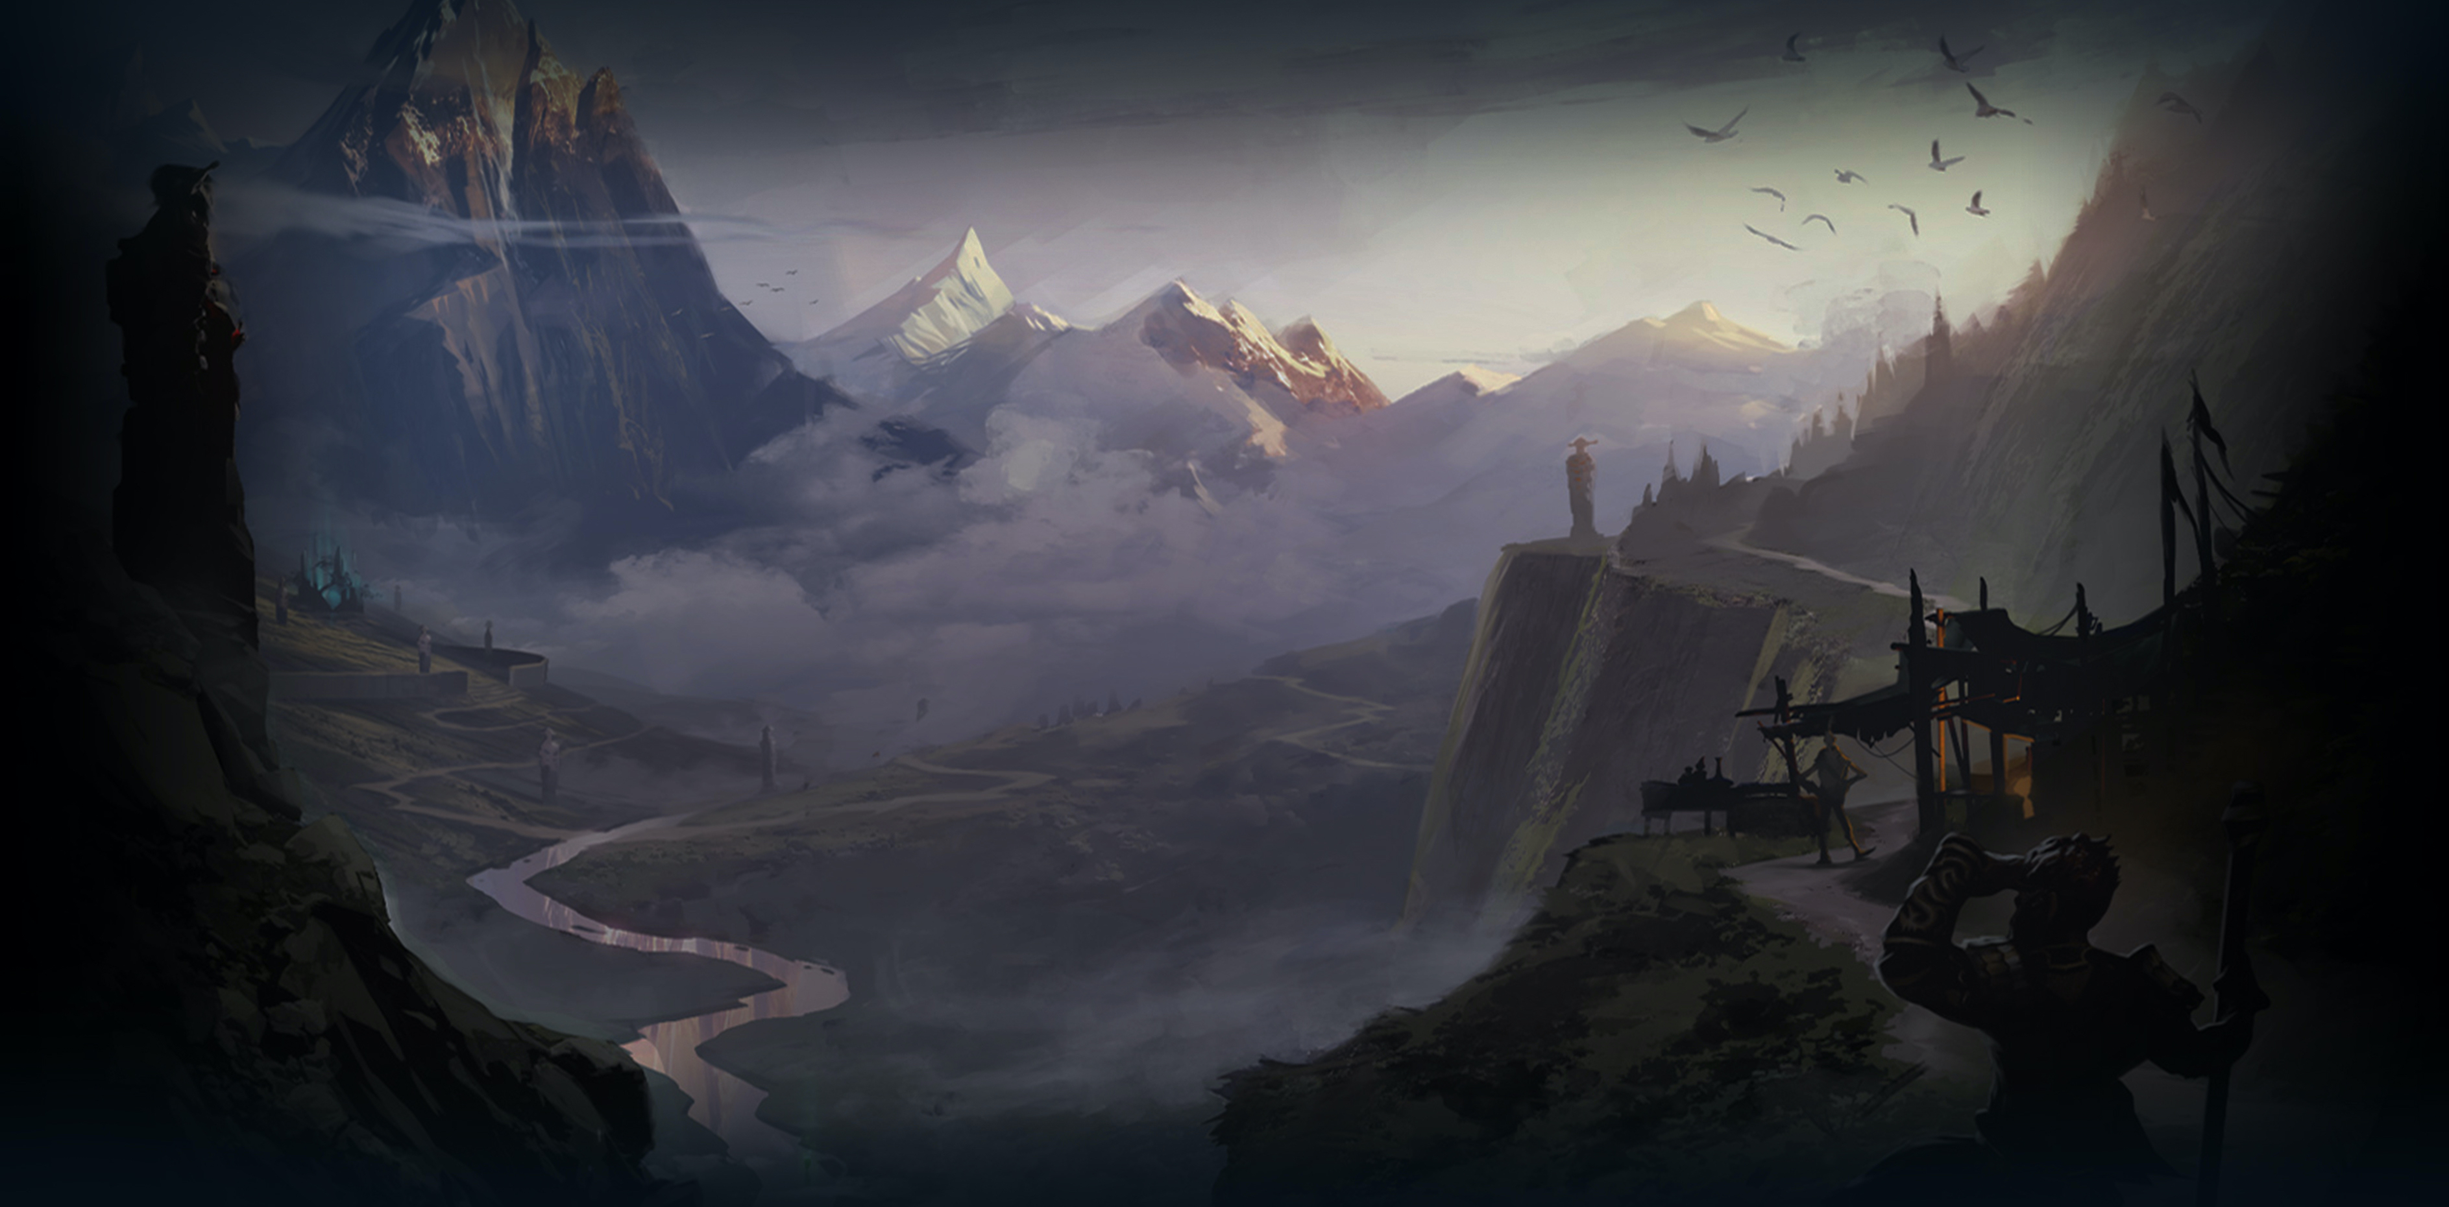
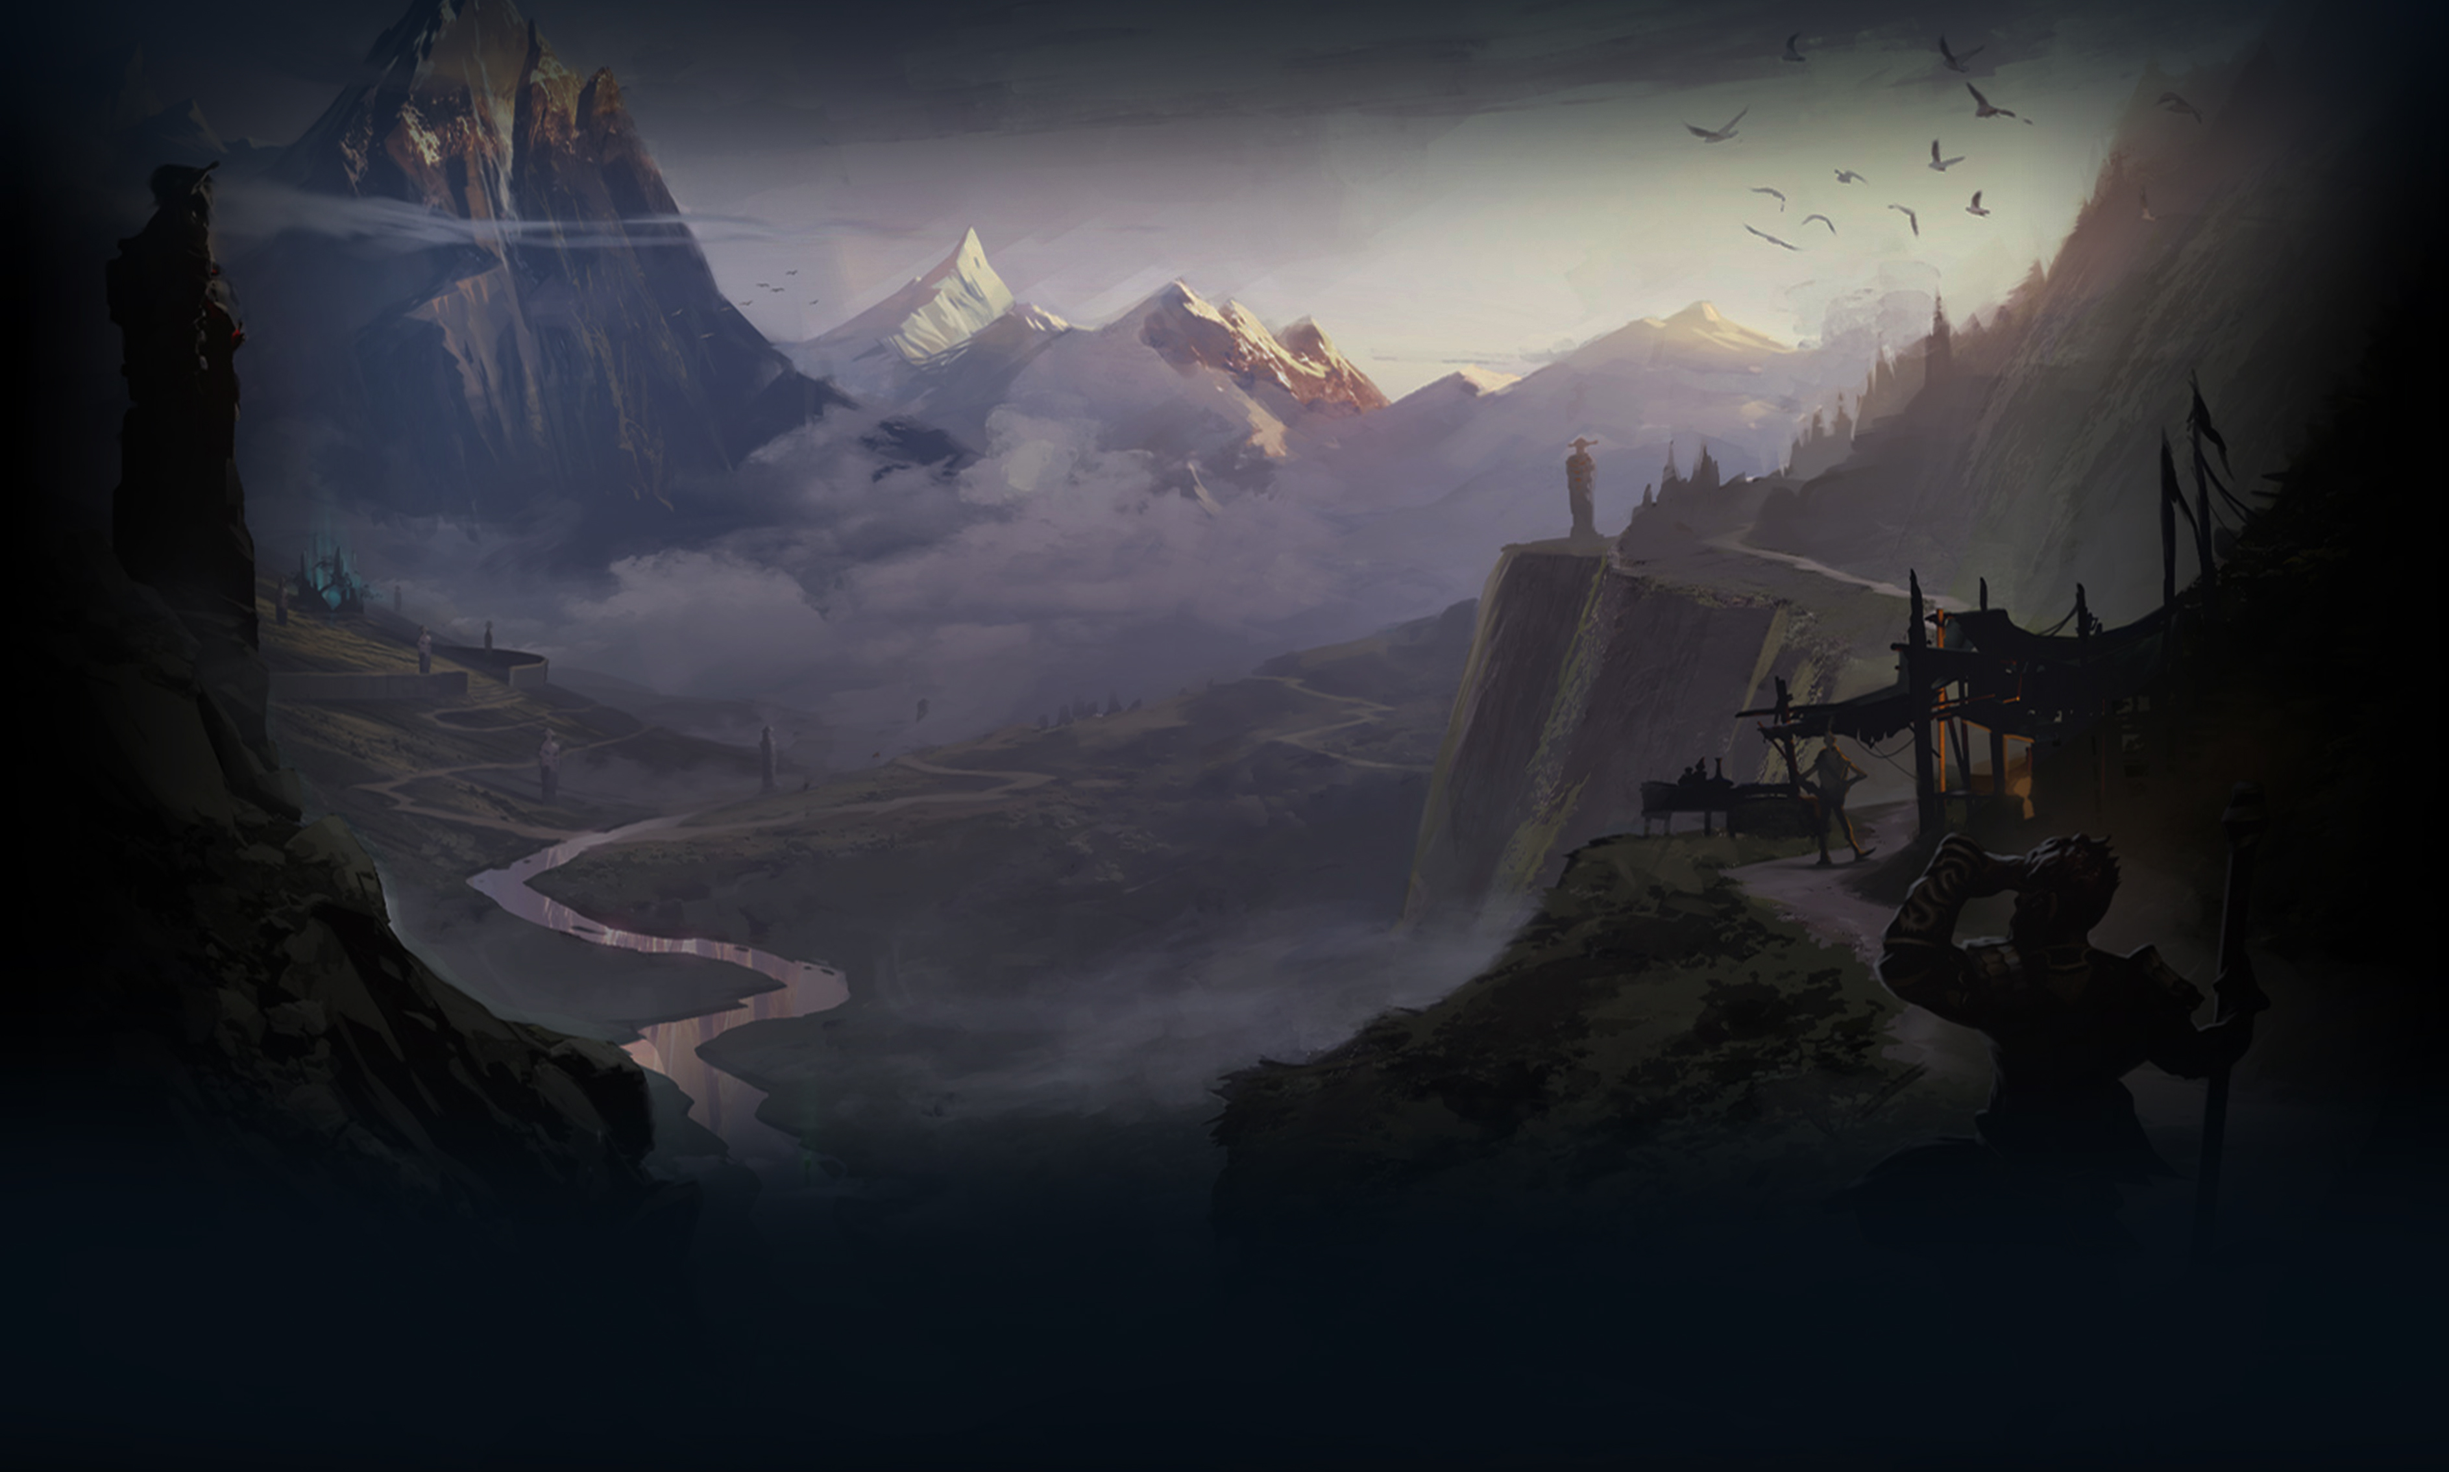
Home page fixes
Add anchor links and yellow/white lines
design fixes

diff --git a/app/webpacker/src/stylesheets/custom.scss b/app/webpacker/src/stylesheets/custom.scss
@@ -1,3 +1,6 @@
+html {
+  scroll-behavior: smooth;
+}
 body {
   font-family: "Raleway";
   color: white;
@@ -14,13 +17,6 @@ h1, h2, h3, h4, h5, h6, p {
 }
 
 .montserrat {
-  font-family: "Montserrat";
-}
-
-.heading {
-  font-weight: 900 !important;
-  font-size: 3.3rem;
-  color: white;
   font-family: "Montserrat";
 }
 
@@ -42,40 +38,52 @@ h1, h2, h3, h4, h5, h6, p {
 }
 
 .logo-size {
-  width: 140px;
+  width: 130px;
 }
 
+.heading {
+  font-weight: 900 !important;
+  font-size: 3.3rem;
+  color: white;
+  font-family: "Montserrat";
+}
+
+
 .background-img {
-  background-size:cover;
+  background-size: 100%;
   background-repeat:no-repeat;
-  height: 600px;
   background-image: url('../src/images/1 Wallpaper.jpg');
   background-attachment: fixed;
+  padding-top: 150px;
+  padding-bottom: 150px;
+  border-bottom: 1px solid white;
 }
 
 .background-img-1 {
-  height: 1400px;
-  background-size:contain;
-  background-position: center top;
+  background-size: 65%, 100%;
   background-repeat:no-repeat;
-  background-image: linear-gradient(rgba(0,0,0,.2), rgba(0,0,0,.2)), url('../src/images/Compiled Wallpaper.jpg');
+  background-position: 50% 80%, center top;
+  background-image: url('../src/images/Arc warden snap vs.png'), url('../src/images/Compiled Wallpaper.jpg');
   background-color: black;
-  transition: all 1s;
+  padding-top: 2%;
+  padding-bottom: 3%;
+  border-bottom: 1px solid #FDDC56;
 }
 
 .background-img-2 {
-  background-size:cover;
-  background-position: center;
+  background-size: 100%;
   background-repeat:no-repeat;
-  height: 710px;
-  background-image: linear-gradient(rgba(0,0,0,.2), rgba(0,0,0,.2)), url('../src/images/3 Wallpaper.jpg');
-  transition: all 1s;
+  background-position: center top;
+  background-image: url('../src/images/3 Wallpaper.jpg');
+  padding-top: 40px;
+  padding-bottom: 60px;
+  border-bottom: 1px solid #FDDC56;
 }
 
 .btn-nocturnal {
   border-radius: 30px;
-  font-size: 0.9rem;
-  padding: 0.6rem 5rem;
+  font-size: 1rem;
+  padding: 0.8rem 7rem;
   color: black;
   background-color: #FDDC56;
   font-family: "Montserrat";
@@ -85,10 +93,15 @@ h1, h2, h3, h4, h5, h6, p {
   line-height: 1 !important;
 }
 
+.line-height-md {
+  line-height: 2 !important;
+}
+
 .text-glow-white {
   text-shadow: 0px 0px 5px #FDDC56;
 }
 
 .text-glow-yellow {
-  text-shadow: -1px 1px 6px black, 0px 0px 10px #FDDC56, 0px 0px 15px #FDDC56, 0px 0px 20px #FDDC56;
+  text-shadow: -1px 1px 8px black, 0px 0px 10px #FDDC56, 0px 0px 15px #FDDC56, 0px 0px 20px #FDDC56;
+  font-weight: 400 !important;
 }
